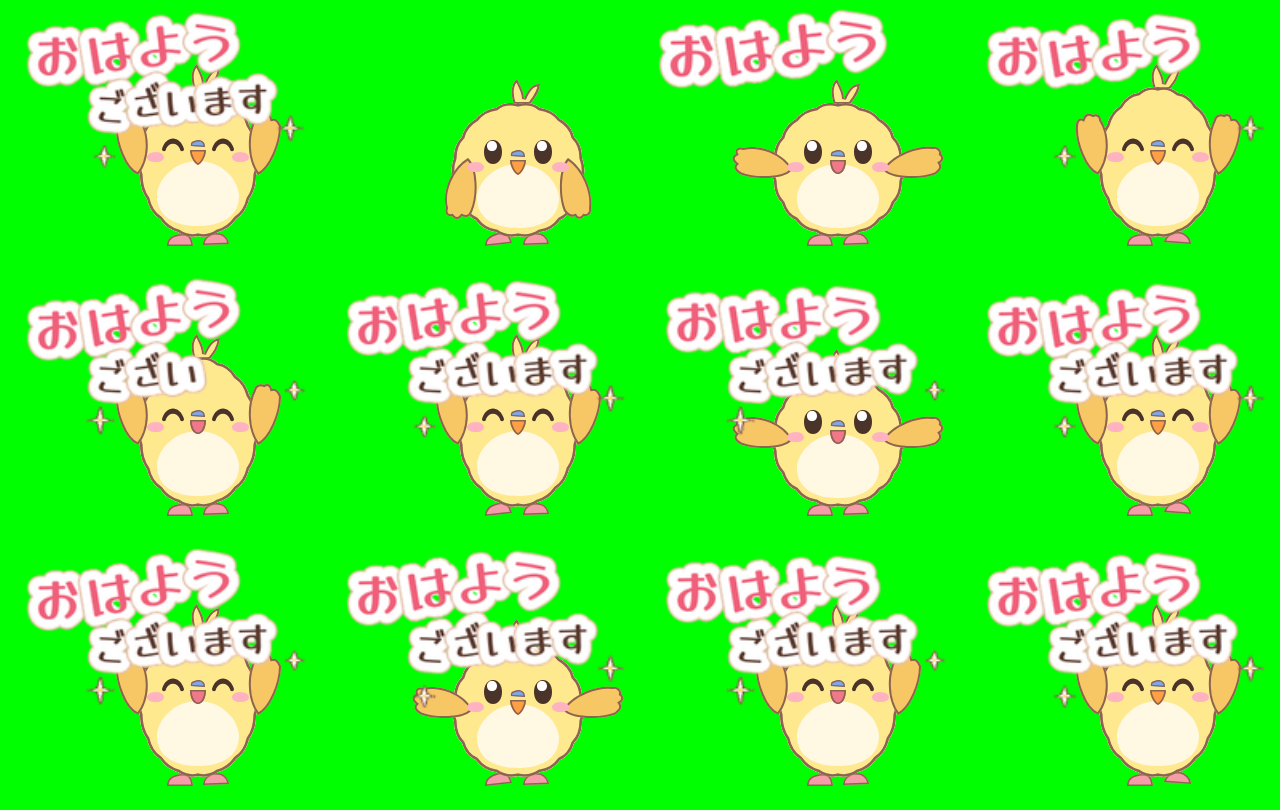
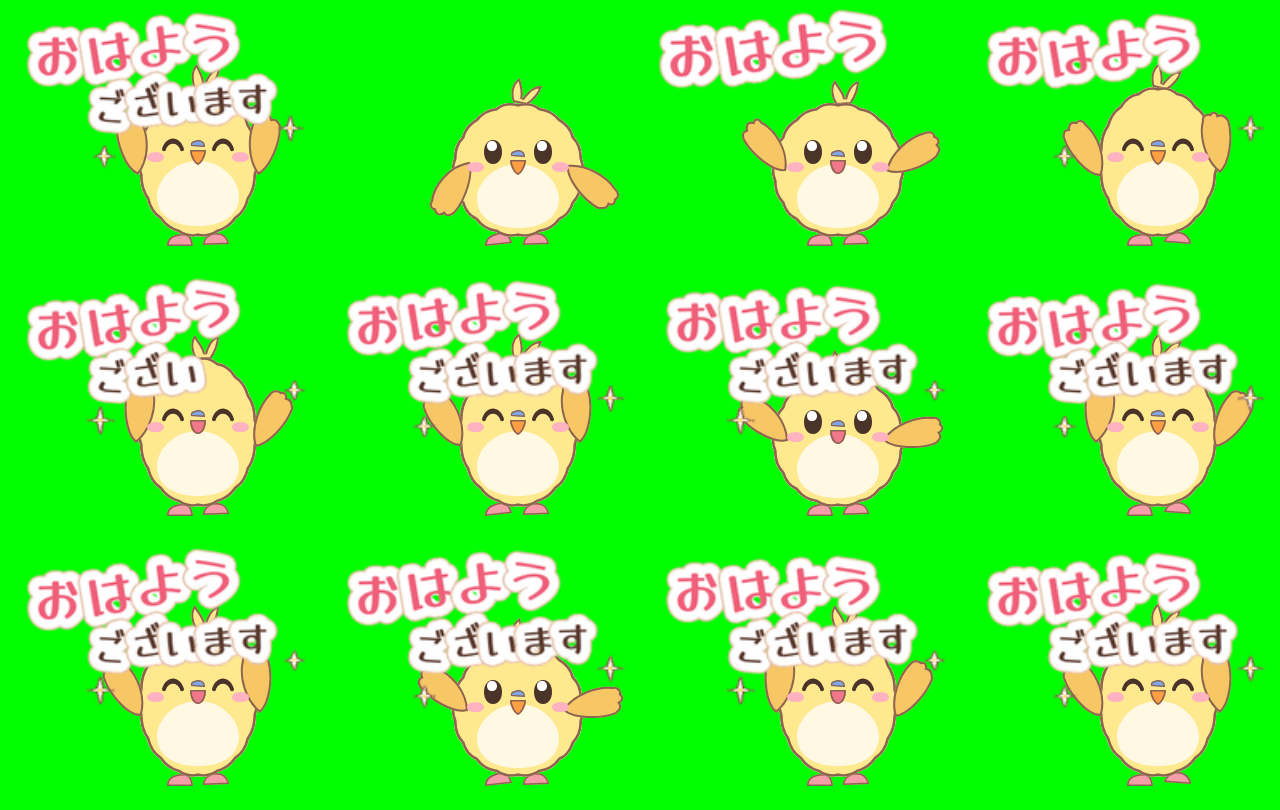
set01: move left and right arms independently on all stickers, sway head tuft
Claude-Session: https://claude.ai/code/session_01RfomAZL54wRevPjVr3cHPk

diff --git a/tools/soft.py b/tools/soft.py
@@ -482,6 +482,57 @@ for frames in STAMPS.values():
         frames[i]["poses"] = frames[i]["poses"] + [step(side)]
 
 
+# 腕ふり: 左右の羽を肩(羽の上端)を支点に別々の角度・別々のタイミングで動かす。
+# 値は「外へ開く」向きを正とした角度(度)。1コマ目=完成形は 0 のまま。
+def flap(key, ang):
+    def f(c):
+        p = c[key]
+        th = math.radians(p.get("rot", 0))
+        vx, vy = 0, -p["h"] / 2 + 6  # 肩(羽の上端より少し下)
+        sx = p["left"] + p["w"] / 2 + vx * math.cos(th) - vy * math.sin(th)
+        sy = p["top"] + p["h"] / 2 + vx * math.sin(th) + vy * math.cos(th)
+        p["rot"] = p.get("rot", 0) + (ang if key == "P6" else -ang)
+        th = math.radians(p["rot"])
+        p["left"] = sx - (vx * math.cos(th) - vy * math.sin(th)) - p["w"] / 2
+        p["top"] = sy - (vx * math.sin(th) + vy * math.cos(th)) - p["h"] / 2
+    return f
+
+
+ARMS = {  # (左腕, 右腕)
+    "01": ([0, 20, 40, 15, 35, 10, 35, 15, 40, 10, 35, 15],
+           [0, 35, 10, 40, 5, 10, -6, 10, -6, 10, -6, 10]),
+    "02": ([0, 30, 0, 30, 0, 15, 35, 0, 35, 0, 35, 0],
+           [0, 0, 30, 0, 30, 35, 15, 35, 0, 35, 0, 35]),
+    "03": ([0, 15, 30, 10, 30, 10, 30, 10, 30, 10, 30, 10],
+           [0, 35, 12, -12, 12, -12, 12, -12, 12, -12, 12, 0]),
+    "04": ([0, 25, 40, 15, 40, 0, 20, 30, 10, 30, 10, 0],
+           [0, 10, 20, 40, 15, 20, 0, 10, 30, 10, 30, 20]),
+    "05": ([0, -10, 45, 60, 45, 25, 0, 20, 40, 20, 40, 20],
+           [0, 0, 0, 0, 0, 0, 0, 10, -6, 10, -6, 10]),
+    "06": ([0, 25, 35, 10, 35, 10, 35, 10, 35, 10, 30, 10],
+           [0, 35, 10, 35, 10, 35, 10, 35, 10, 35, 10, 30]),
+    "07": ([0, 20, 40, -20, 15, -20, 30, 15, -20, 30, 15, -20],
+           [0, 40, 20, 15, -20, 15, 0, -20, 15, 0, -20, 15]),
+    "08": ([0, 5, 10, 20, 30, 20, 10, 0, -5, 0, 5, 0],
+           [0, 10, 5, 0, -5, 0, 10, 20, 30, 20, 10, 5]),
+}
+# 頭の毛も左右にゆらす(1コマ目は 0)
+TUFT = [0, 10, -8, 10, -8, 10, -8, 10, -8, 10, -8, 6]
+
+
+def tuft(ang):
+    def f(c):
+        c["P1"]["rot"] = c["P1"].get("rot", 0) + ang
+    return f
+
+
+for name, frames in STAMPS.items():
+    left, right = ARMS[name]
+    for i, fr in enumerate(frames):
+        if i:
+            fr["poses"] = fr["poses"] + [flap("P6", left[i]), flap("P7", right[i]), tuft(TUFT[i])]
+
+
 # ---- 出力 --------------------------------------------------------------------
 
 def origin(i):

diff --git a/work/set01/qa.md b/work/set01/qa.md
@@ -290,3 +290,17 @@
 - 口パク: くちばしの大きさと位置はそのまま（18×18）。開いたときは形を少し丸くして、色をピンク（#F0788A）に変えるだけ。部品を重ねないので、はみ出さない。
 - 足ぶみ: 片足を横に2px、上に1px、8°だけ傾ける（前回は6px・25°）。
 - Canva の 11〜18ページを描き直して保存。8個とも LINE の規定（300KB以下ほか）を満たすことを確認。
+
+## Fix: both arms should move, independently (4th round)
+- User feedback: "The right hand on 01 isn't moving", "I want left/right motion on all of them", "Moving both sides identically is weak".
+- Every sticker now has a per-frame angle table for each wing (`ARMS` in `tools/soft.py`). Each wing rotates around its shoulder, and the two sides use different angles and timing.
+  - 01 承知しました: left hand raised to the forehead and lowered in salute; right hand flaps in small, quick movements.
+  - 02 ありがとうございます: left and right raise one after the other.
+  - 03 お疲れさまです: right hand waves big; left hand moves gently.
+  - 04 よろしくお願いします: left goes first, right follows a beat later.
+  - 05 了解です！: left hand swings up big; right hand sways slightly.
+  - 06 すみません: left and right flap alternately.
+  - 07 おはようございます: both raised at different heights, swapping back and forth.
+  - 08 おやすみなさい: slow, alternating left/right sway.
+- The tuft on top of the head now sways a little side to side.
+- Redrew pages 11–18 in Canva. All 8 meet LINE's specs; largest is 04 at 299,058 bytes.
